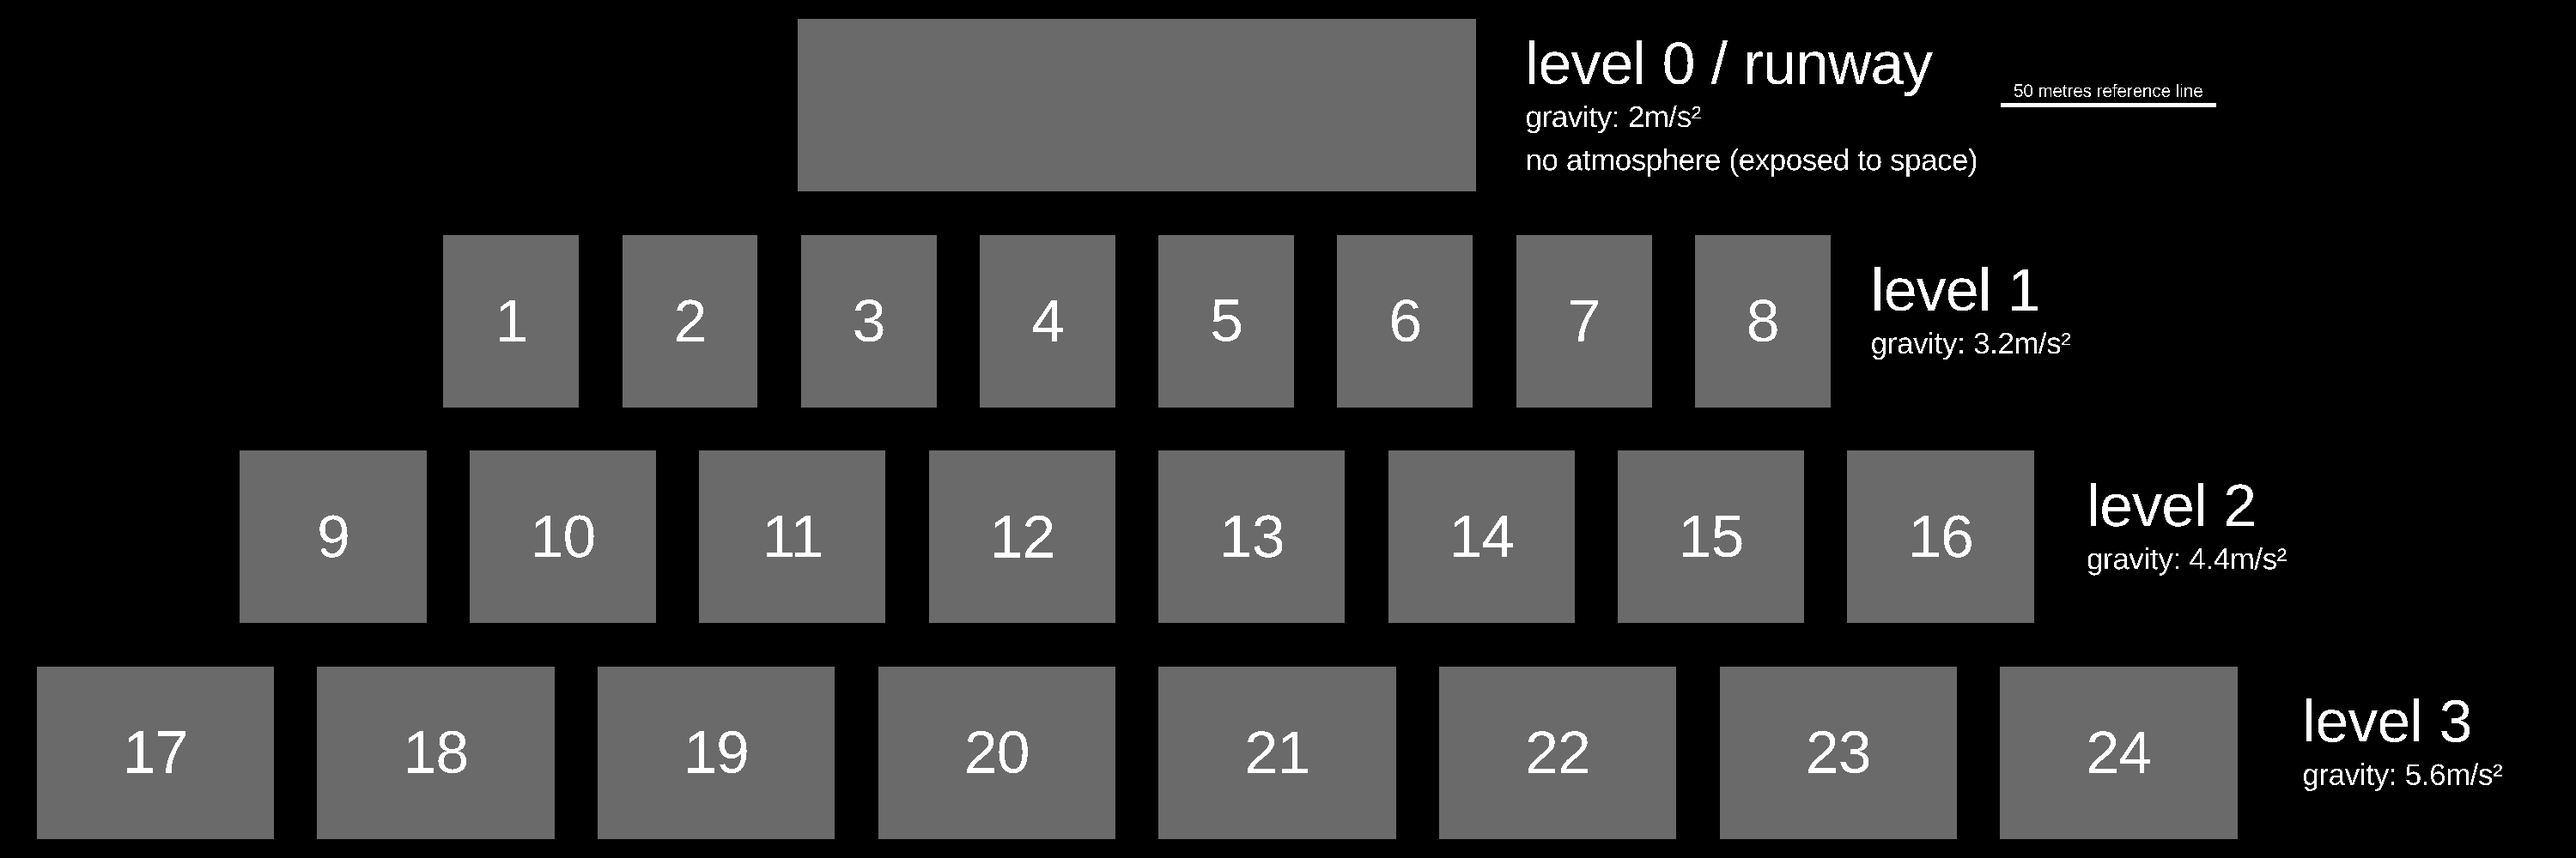
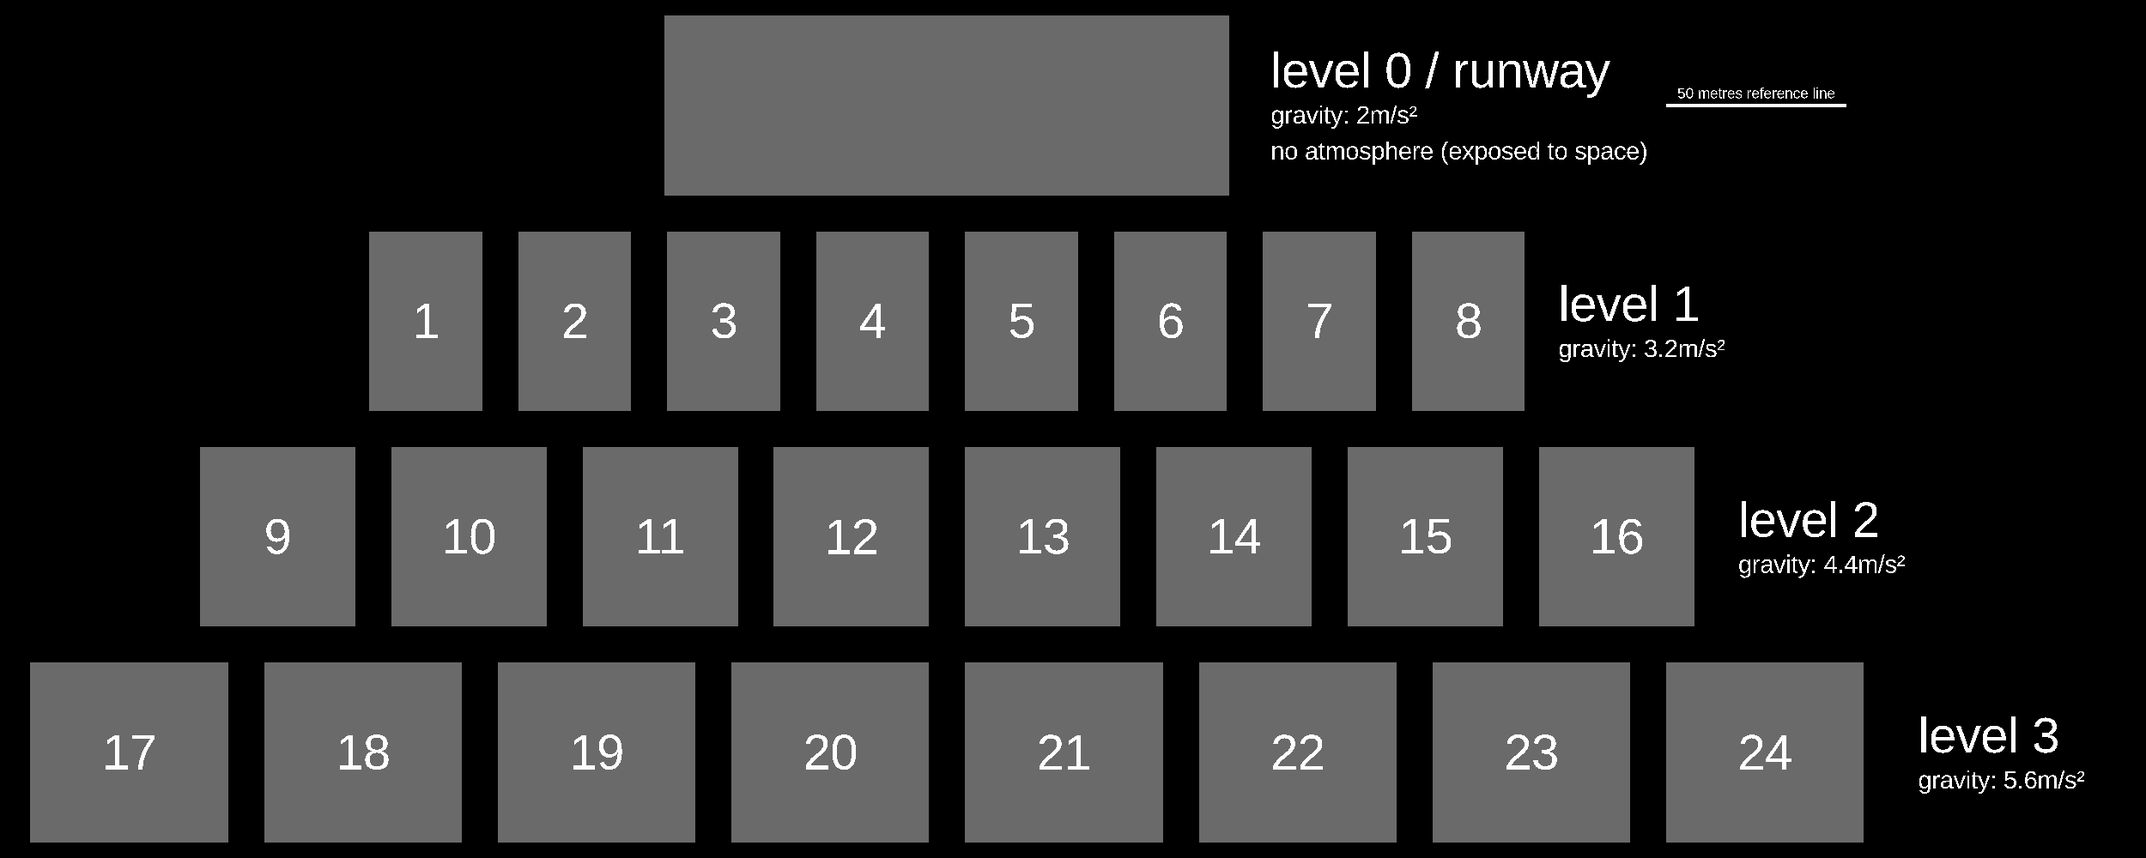
Finespun map fix
- fixed the floors being 40m wide when the habitat is supposed to be 50m wide
- updated both image and openscad model

diff --git a/pages/finespun.html b/pages/finespun.html
@@ -196,11 +196,11 @@ even when they cannot see or contact you
 <td><ul>
 <li>the basics and the obvious</li>
 <li>who you are working for</li>
-<li>who the worker is are and why hey've been selected</li>
+<li>who you are and why you've been selected</li>
 <li>free card for any other information you want to provide</li>
-<li>even if something sounds too obvious, write it down</li>
+<li>even if something sounds too obvious, just write enough here to fill the field</li>
 <br>
-Intelligent agents tend to organize organically, and
+Intelligent agents tend to organize randomly, and
 often end up with strange gaps in their knowledge
 and especially can miss information that is so obvious
 that nobody bothers to mention it explicitly, so providing
